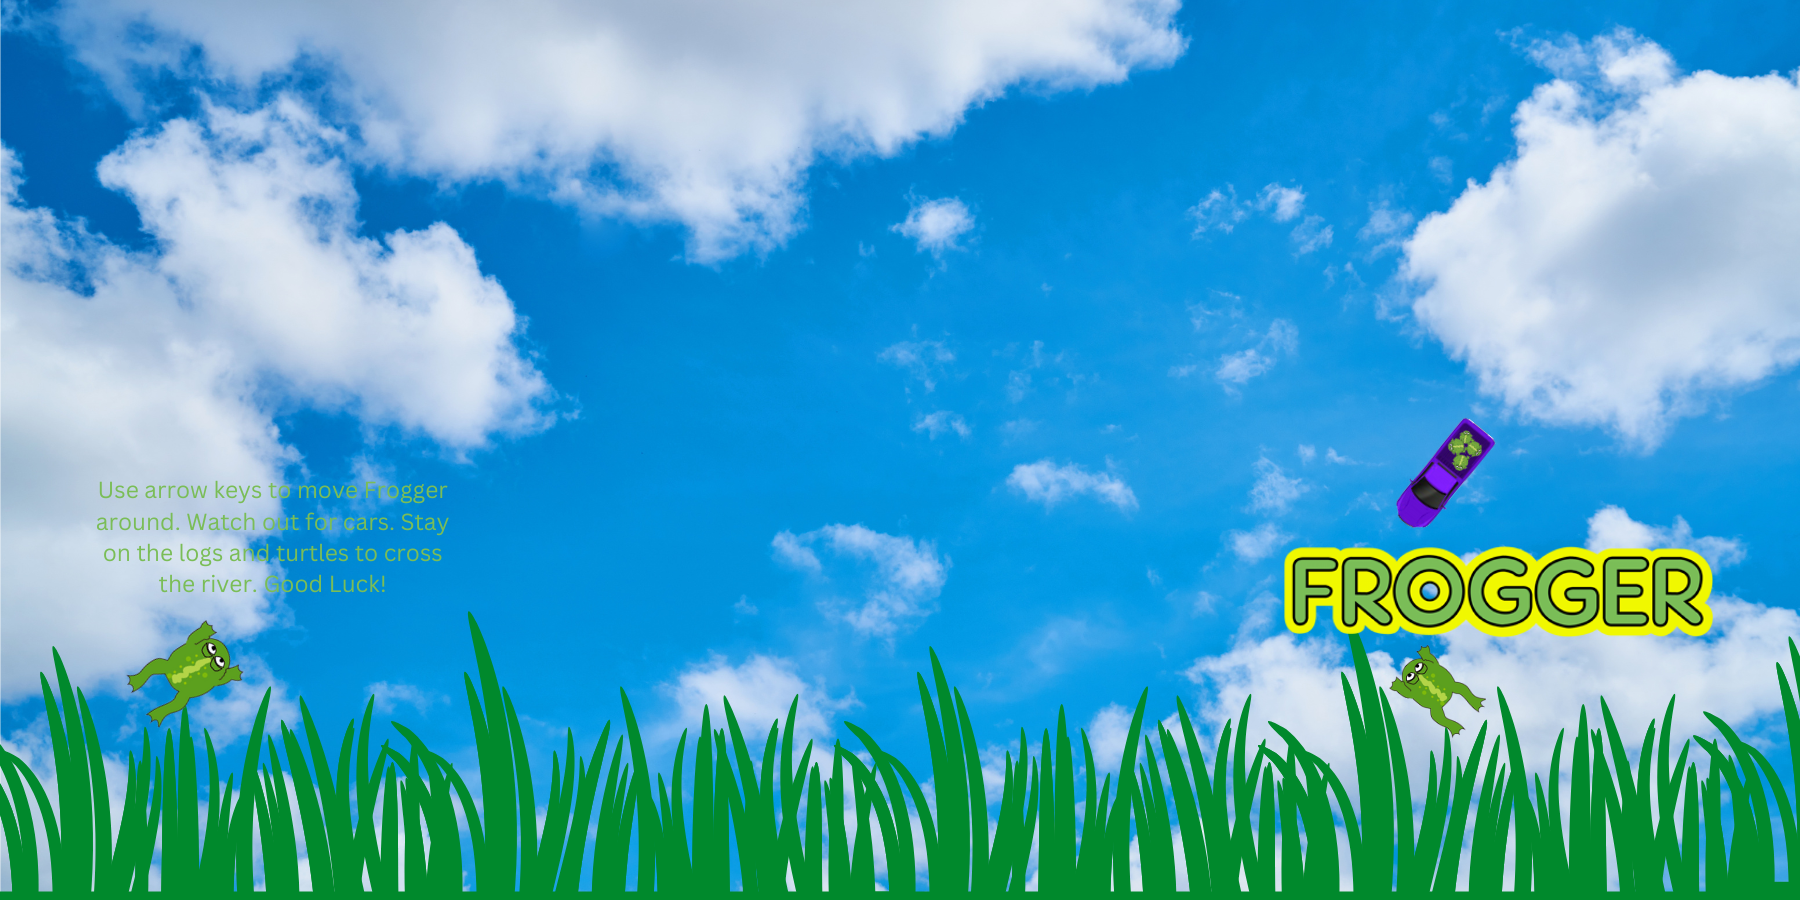
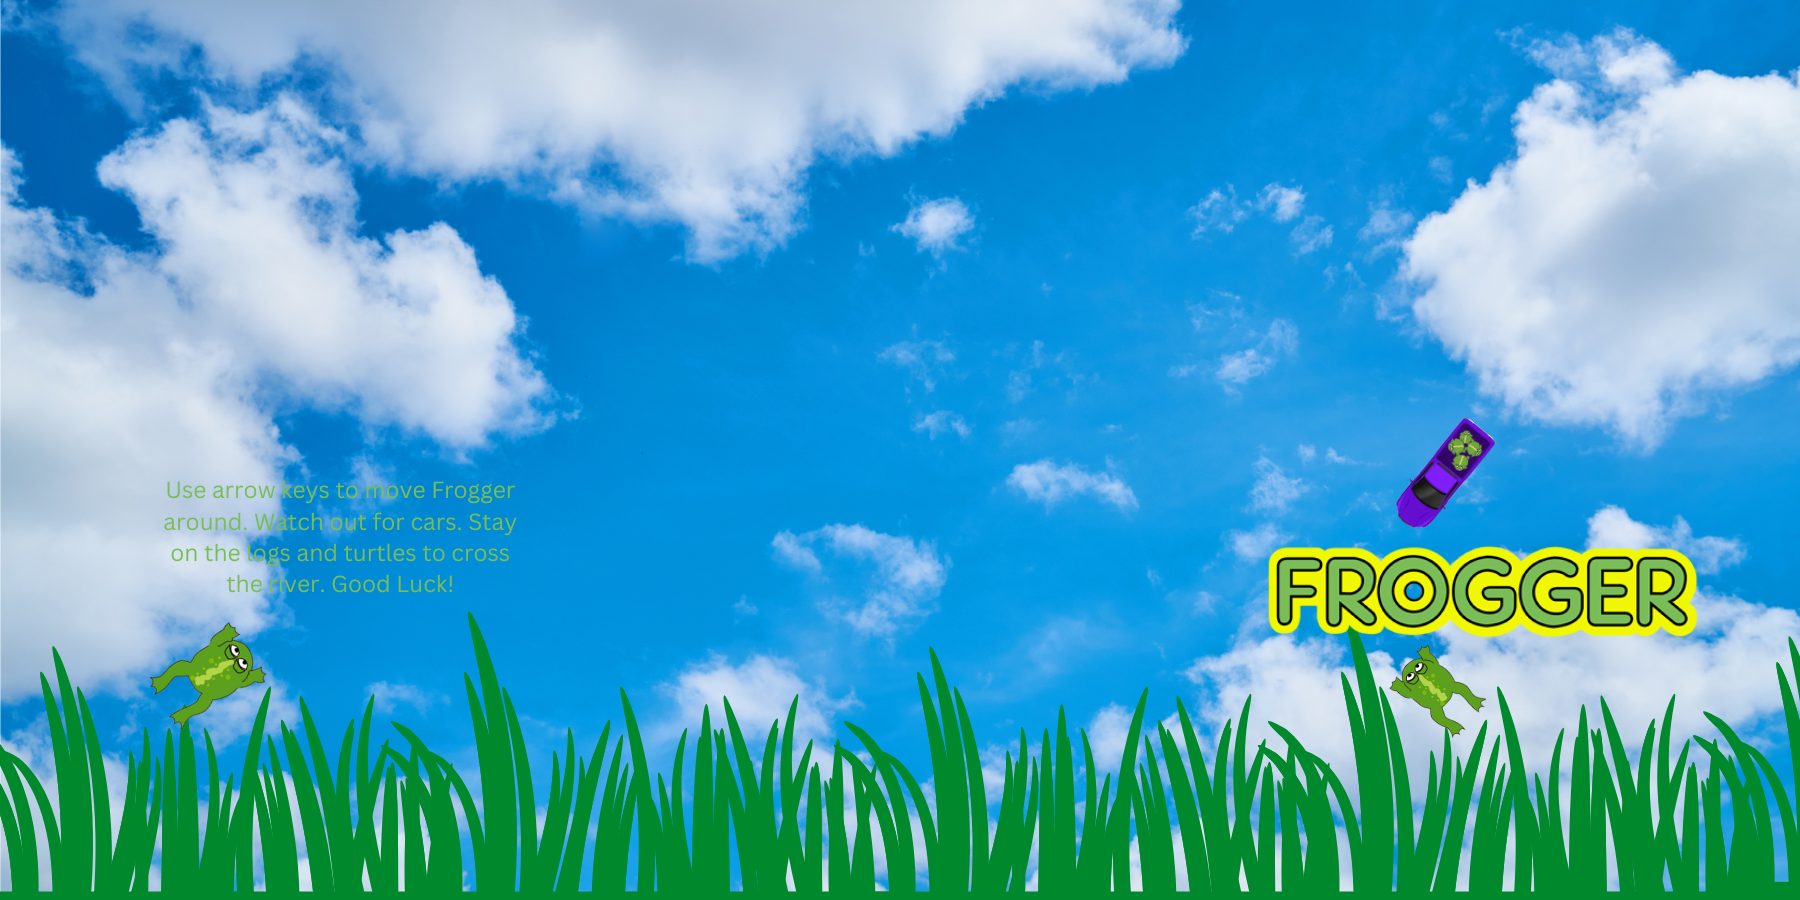
changed the css

Changed region(s): [[0.6844, 0.5911, 0.9644, 0.7156], [0.0622, 0.5289, 0.28, 0.6533], [0.0622, 0.6844, 0.1556, 0.8089]]

diff --git a/format.js b/format.js
@@ -41,7 +41,7 @@ let safe = false;
 
 //typewriter text variables
 const textDisplay = document.getElementById('text');
-const phrases = ['We \u2665 Frogger!', 'Ribbit Ribbit', 'Go Frogger!', 'Look at Frogger Go!','\u2665 \u2665 \u2665 \u2665'];
+const phrases = ['We \u2665 Frogger!', 'Ribbit Ribbit', 'Go Frogger!', 'Jump Frogger Jump!','\u2665 \u2665 \u2665 \u2665'];
 let i = 0; /*keep track of which phrase in the 'phrases' array is currently being displayed(first phrase will be displayed*/
 let j = 0; /*keep track of which letter in the current phrase is being displayed(animation will start with first letter of first phrase)*/
 let currentPhrase = [];

diff --git a/style.css b/style.css
@@ -38,7 +38,7 @@ h3 {
 #text {
     font-size: 20px;
     font-family: 'Press Start 2P', cursive;
-    padding-left: 5vh;
+    padding-left: 7vh;
     padding-top: 25vh;
     color: rgb(122, 189, 87);
     text-shadow: 1px 1px 2px black;
